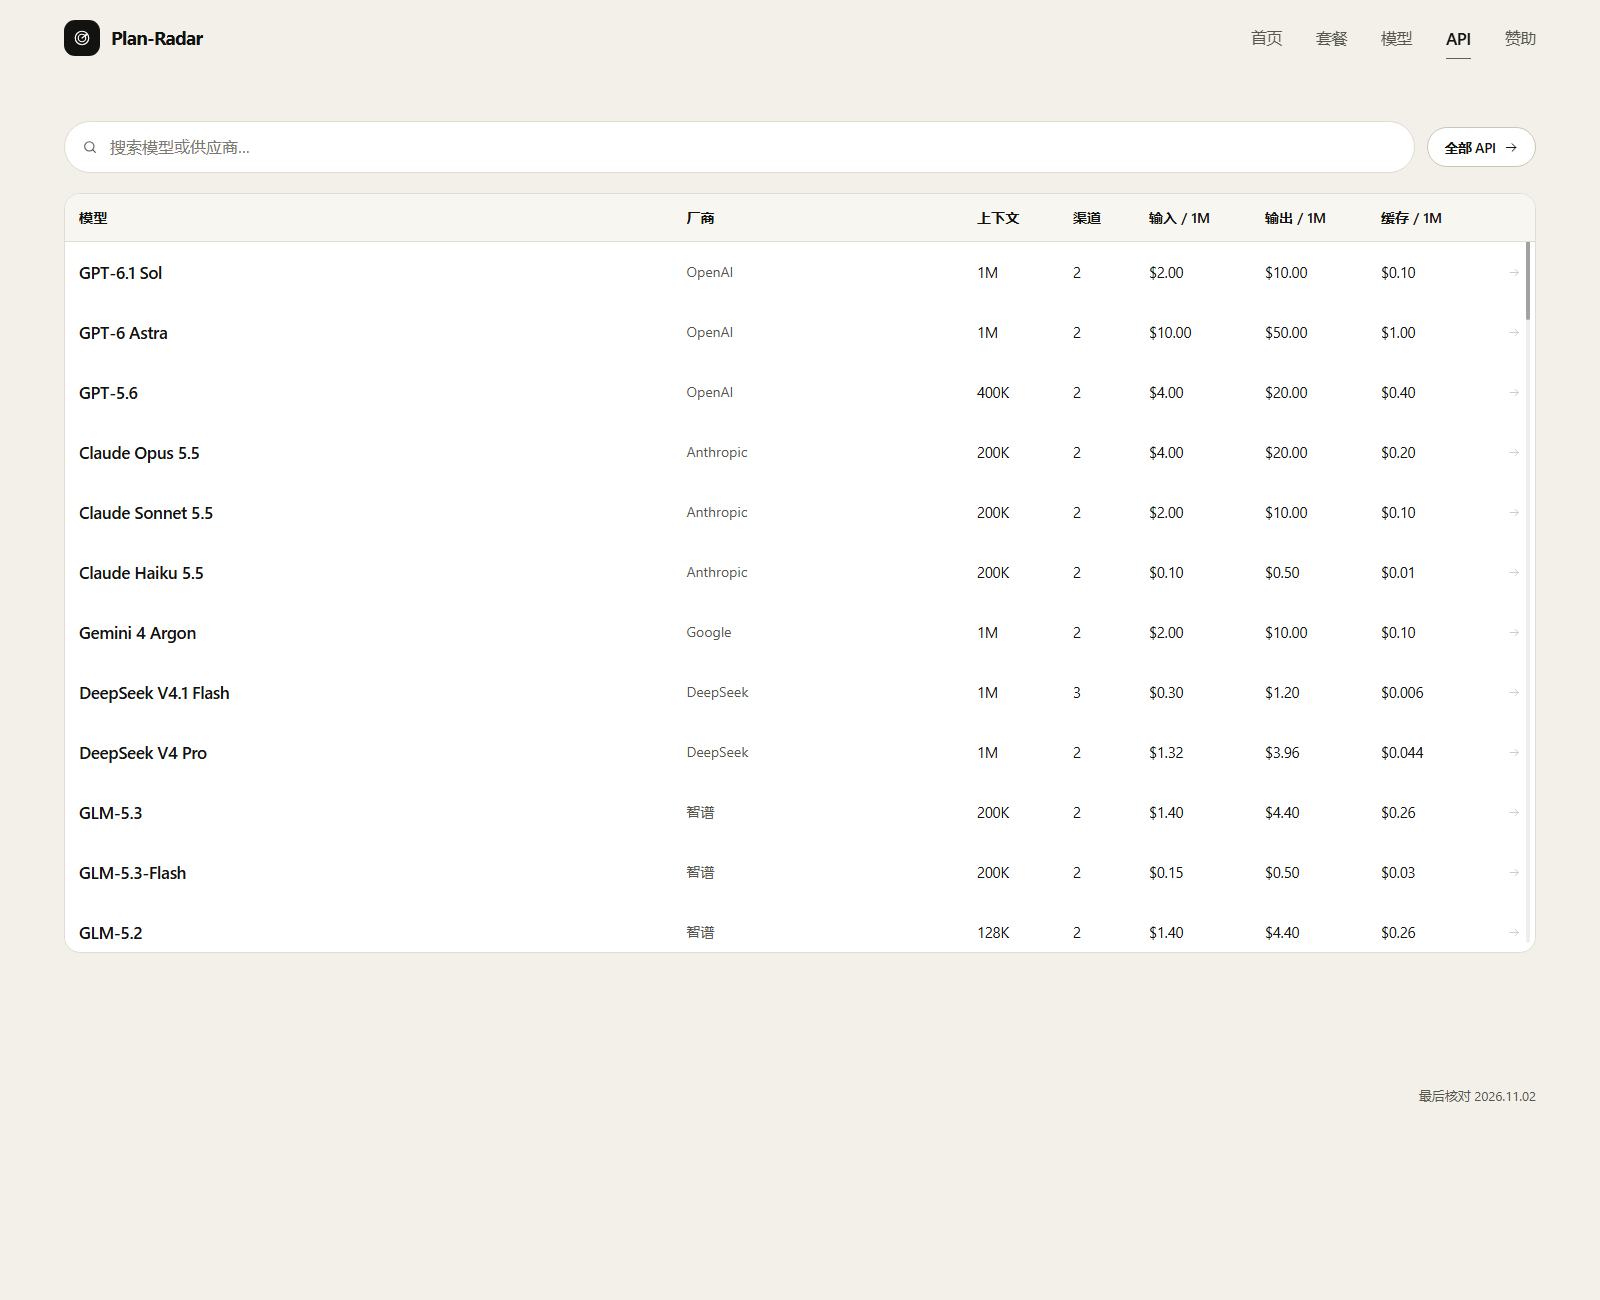
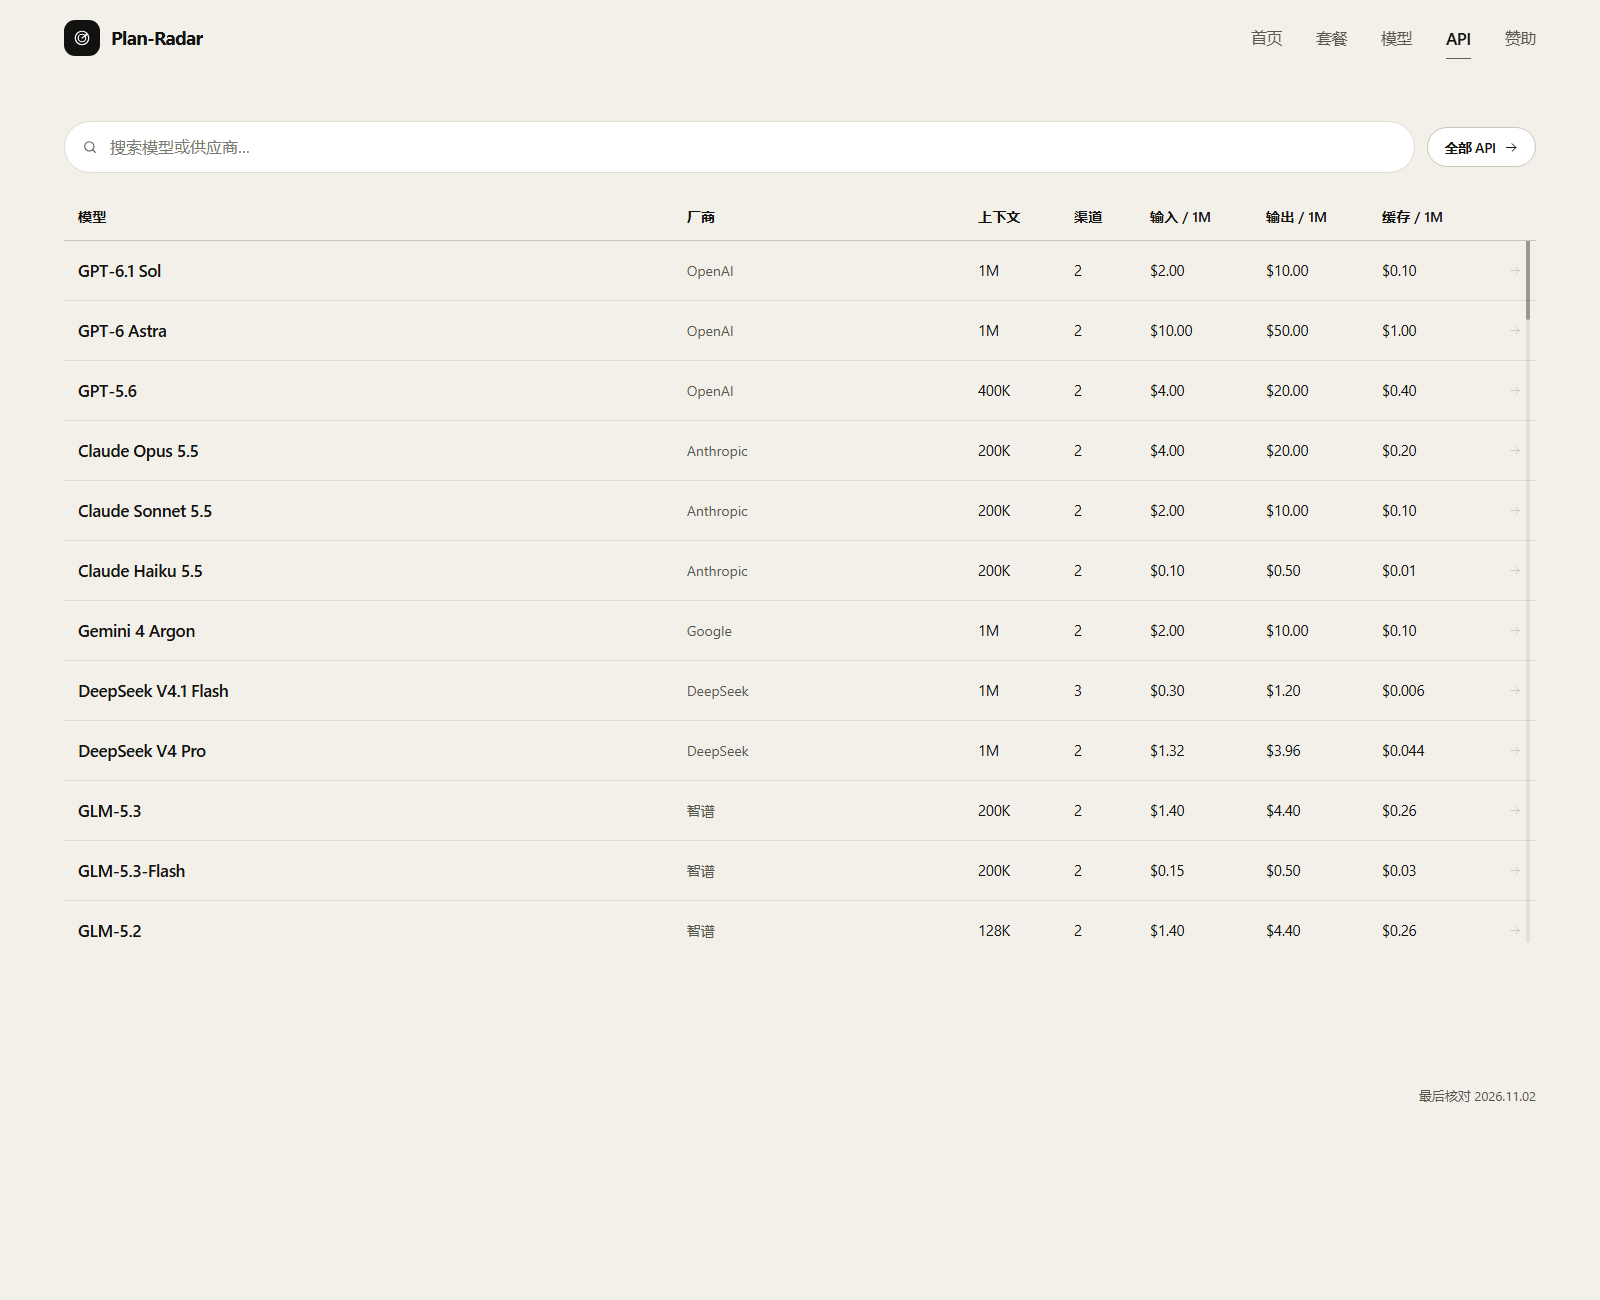
fix: blend model table into page background

diff --git a/app/globals.css b/app/globals.css
@@ -1074,9 +1074,9 @@ body:has(.hero) {
   overflow-x: auto;
   overflow-y: scroll;
   overscroll-behavior: contain;
-  border: 1px solid var(--line);
-  border-radius: 16px;
-  background: #fff;
+  border: 0;
+  border-radius: 0;
+  background: transparent;
   scrollbar-width: none;
   -ms-overflow-style: none;
 }
@@ -1099,13 +1099,6 @@ body:has(.hero) {
   border-radius: 999px;
   background: rgba(21, 21, 19, 0.35);
 }
-.model-table-wrap::-webkit-scrollbar { width: 10px; height: 10px; }
-.model-table-wrap::-webkit-scrollbar-thumb {
-  border: 3px solid #fff;
-  border-radius: 999px;
-  background: var(--line-2);
-}
-.model-table-wrap::-webkit-scrollbar-track { background: transparent; }
 .model-table {
   min-width: 860px;
   background: transparent;
@@ -1127,9 +1120,9 @@ body:has(.hero) {
   z-index: 2;
   min-height: 48px;
   padding: 0 14px;
-  border-bottom: 1px solid var(--line);
+  border-bottom: 1px solid var(--line-2);
   border-radius: 0;
-  background: var(--soft);
+  background: var(--bg);
   font-size: 14px;
   font-weight: 600;
   letter-spacing: 0.01em;
@@ -1138,12 +1131,12 @@ body:has(.hero) {
 .model-row {
   min-height: 60px;
   padding: 0 14px;
-  border-bottom: 0;
-  border-radius: 8px;
+  border-bottom: 1px solid var(--line);
+  border-radius: 0;
   color: var(--ink);
   transition: background 0.16s ease;
 }
-.model-row:hover { background: #f8f8f4; }
+.model-row:hover { background: rgba(21, 21, 19, 0.035); }
 .model-row:last-child { border-bottom: 0; }
 .model-cell b { font-size: 17px; font-weight: 550; letter-spacing: -0.02em; }
 .model-row .muted { font-size: 14px; color: var(--muted); }
